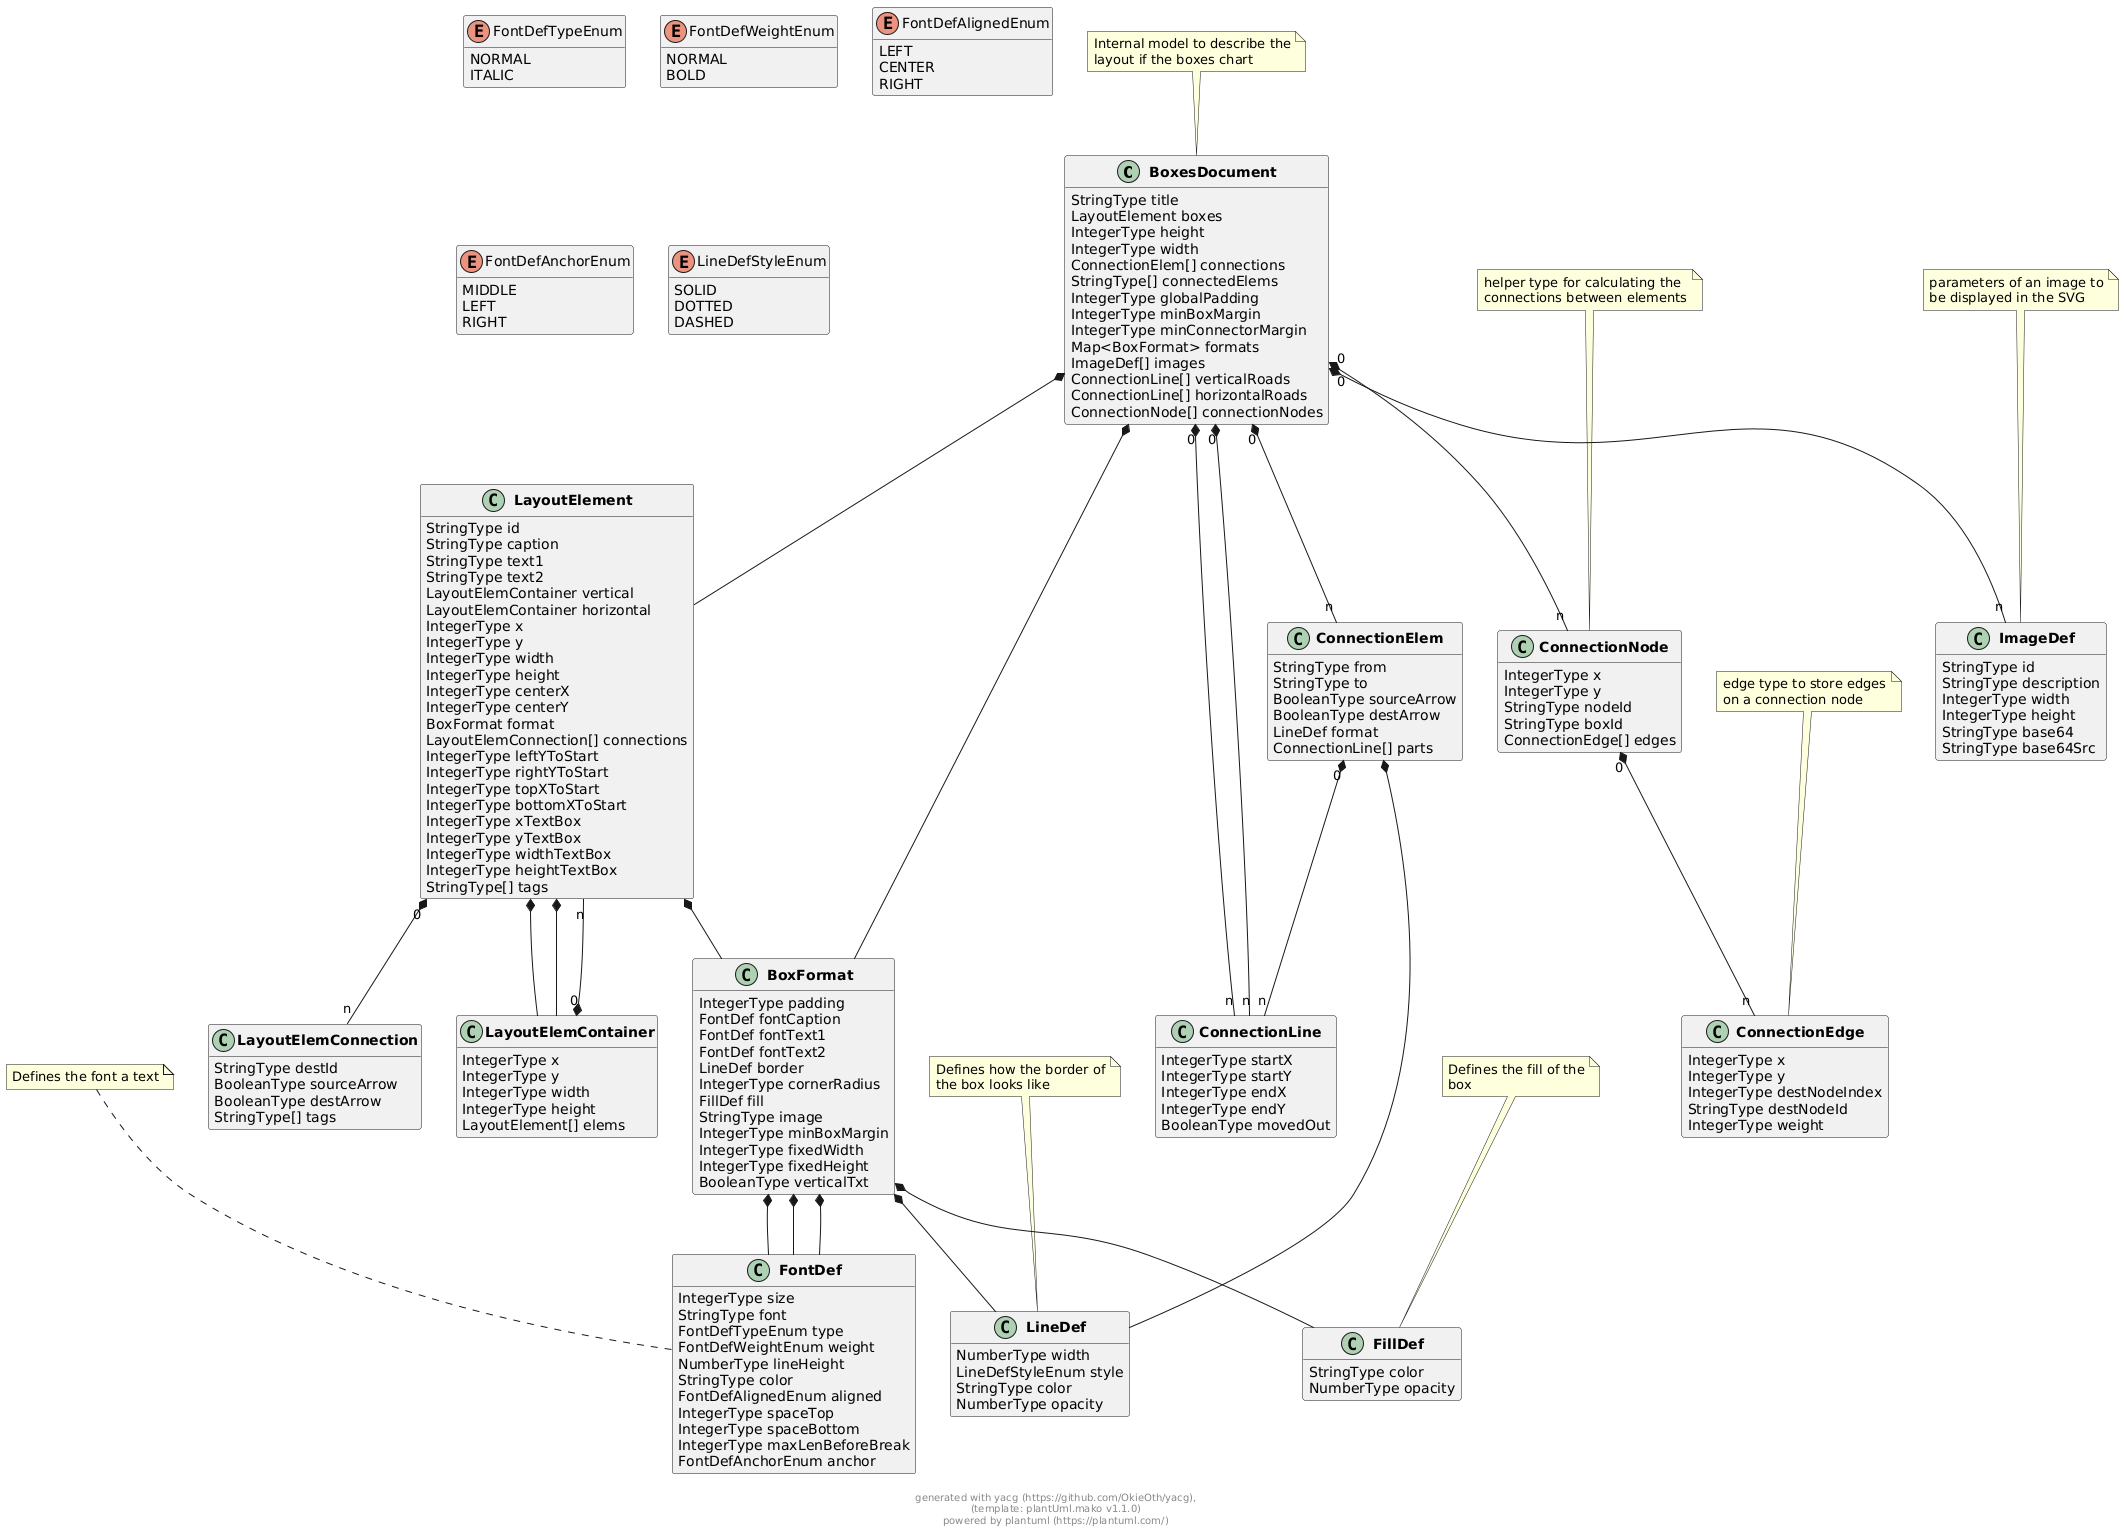
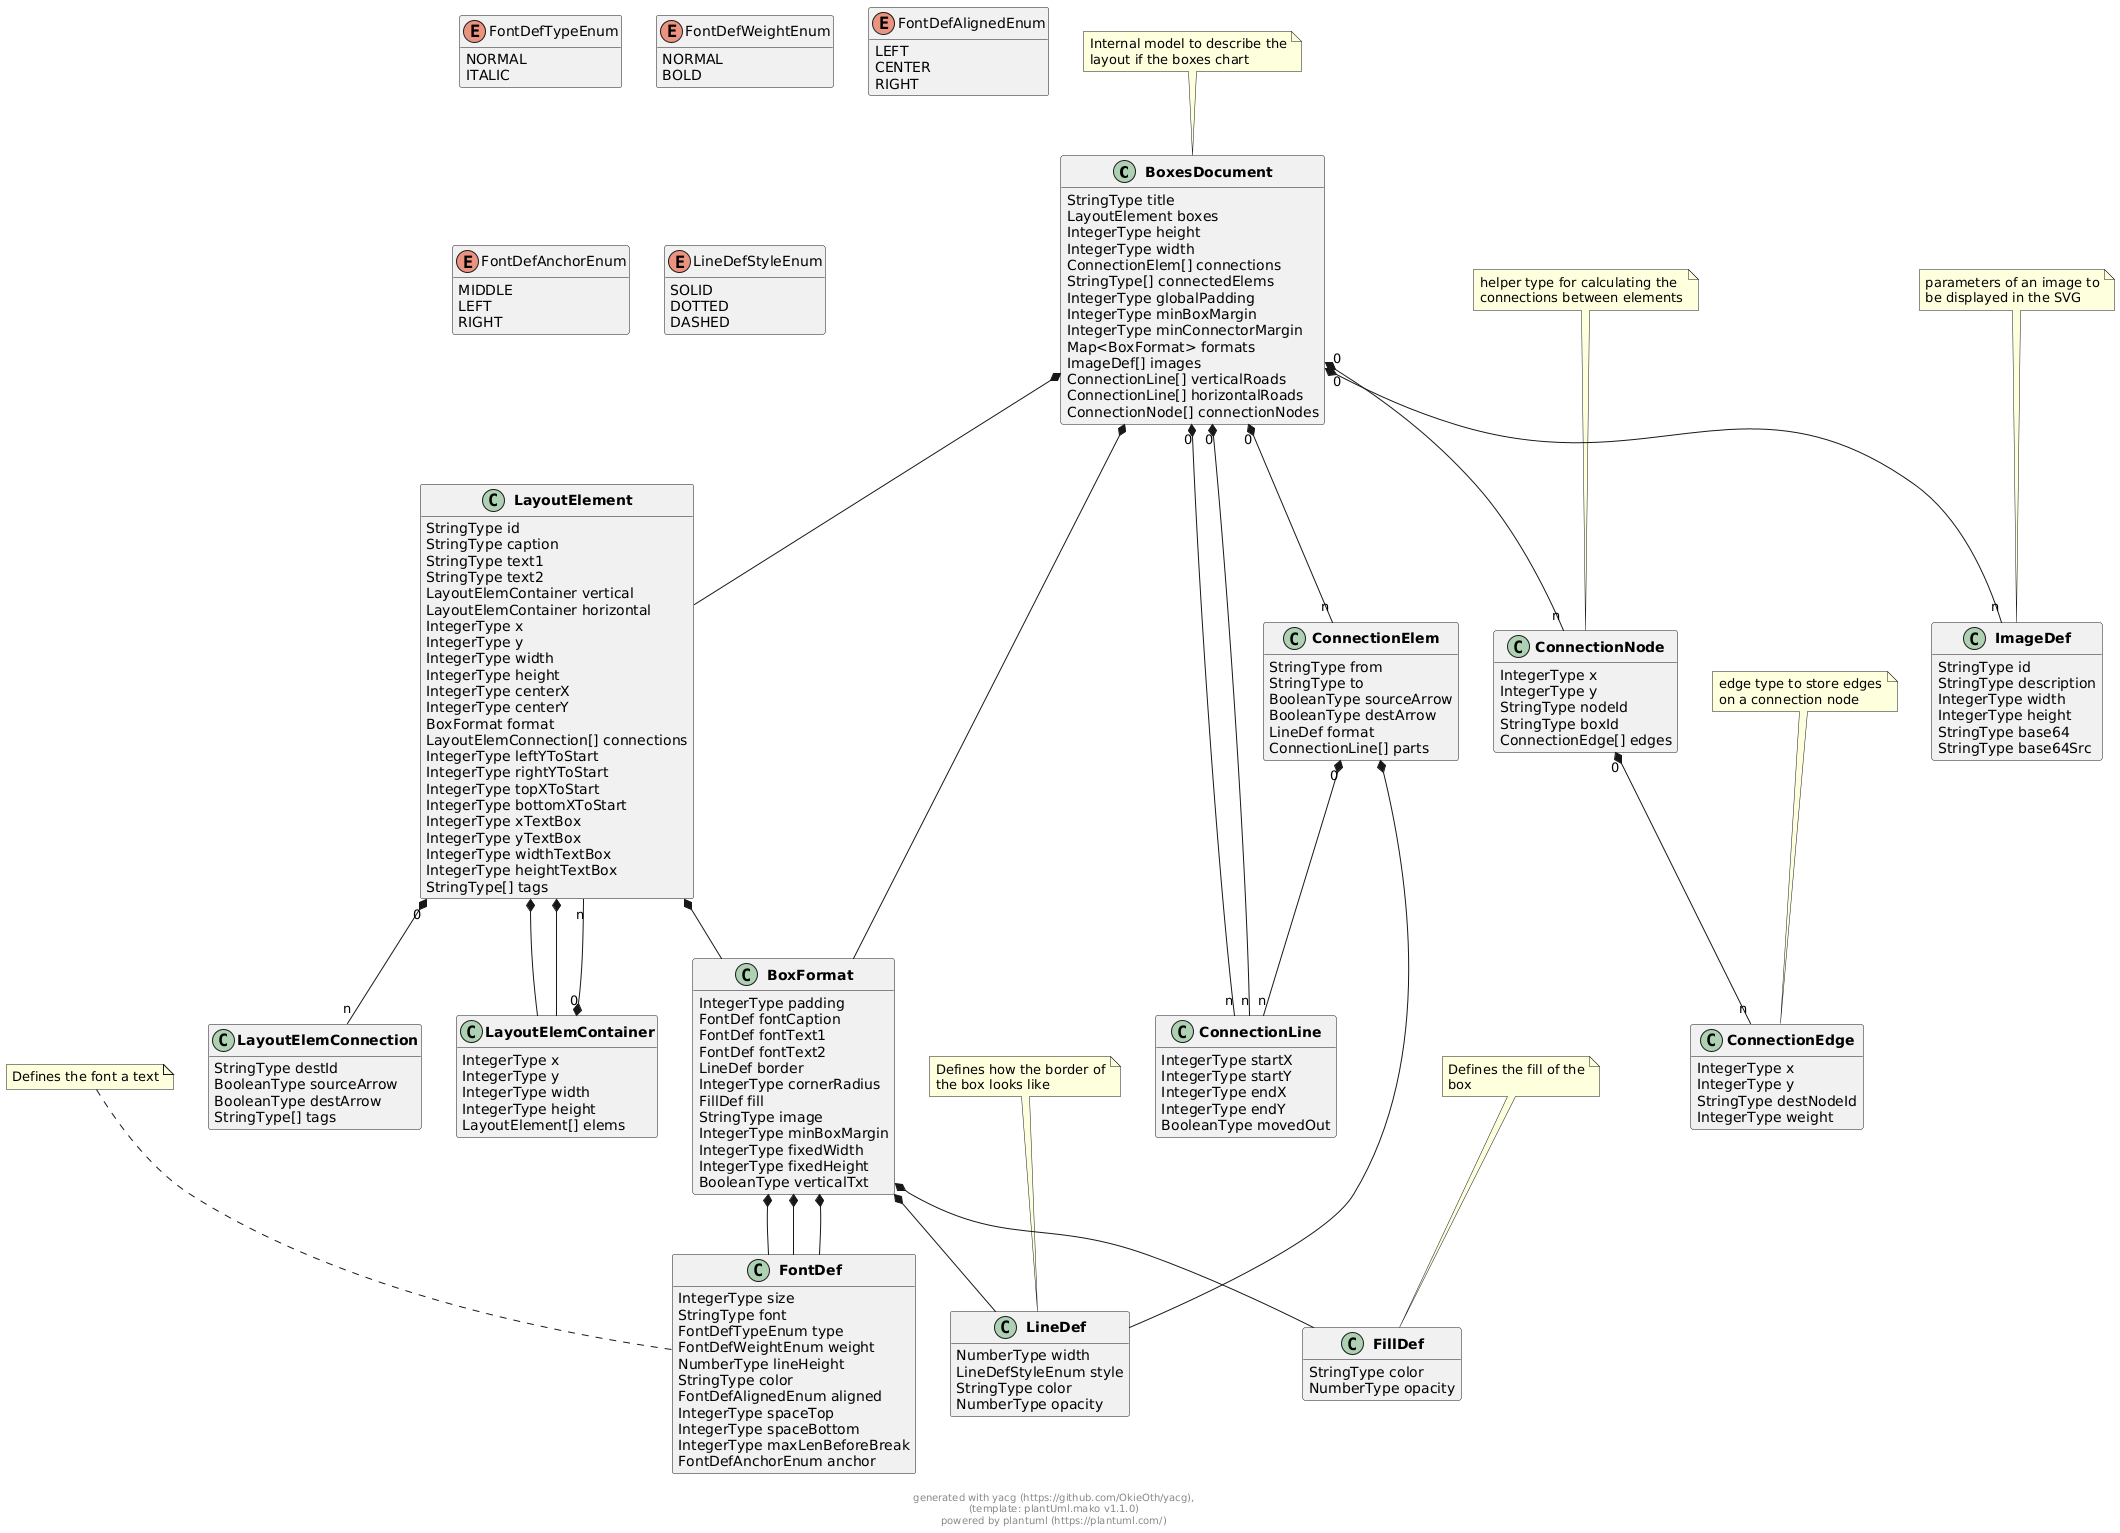
removed unneeded field from boxesdocument

diff --git a/pkg/types/boxes/connect.go b/pkg/types/boxes/connect.go
@@ -167,12 +167,9 @@ func (doc *BoxesDocument) horizontalRoads2ConnectionNodes() {
 					weight := v.StartX - doc.ConnectionNodes[len(doc.ConnectionNodes)-1].X
 					newEdge := CreateConnectionEdge(v.StartX, h.StartY, weight)
 					newEdge.DestNodeId = &id
-					newEdge.DestNodeIndex = &newNodeIndex
 					doc.ConnectionNodes[len(doc.ConnectionNodes)-1].Edges = append(doc.ConnectionNodes[len(doc.ConnectionNodes)-1].Edges, newEdge)
 					newEdge2 := CreateConnectionEdge(doc.ConnectionNodes[len(doc.ConnectionNodes)-1].X, doc.ConnectionNodes[len(doc.ConnectionNodes)-1].Y, weight)
 					newEdge2.DestNodeId = doc.ConnectionNodes[len(doc.ConnectionNodes)-1].NodeId
-					lastNodeIndex := newNodeIndex - 1
-					newEdge2.DestNodeIndex = &lastNodeIndex
 					newNode.Edges = append(newNode.Edges, newEdge2)
 				}
 				doc.ConnectionNodes = append(doc.ConnectionNodes, *newNode)
@@ -206,12 +203,10 @@ func (doc *BoxesDocument) verticalEdges() {
 						weight := nodeY - lastY
 						newEdgeUp := CreateConnectionEdge(v.StartX, lastY, weight)
 						newEdgeUp.DestNodeId = doc.ConnectionNodes[lastNodeIndex].NodeId
-						newEdgeUp.DestNodeIndex = &lastNodeIndex
 						doc.ConnectionNodes[nodeIndex].Edges = append(doc.ConnectionNodes[nodeIndex].Edges, newEdgeUp)
 
 						newEdgeDown := CreateConnectionEdge(nodeX, nodeY, weight)
 						newEdgeDown.DestNodeId = doc.ConnectionNodes[nodeIndex].NodeId
-						newEdgeDown.DestNodeIndex = &nodeIndex
 						doc.ConnectionNodes[lastNodeIndex].Edges = append(doc.ConnectionNodes[lastNodeIndex].Edges, newEdgeDown)
 					}
 				}
@@ -236,10 +231,8 @@ func (doc *BoxesDocument) initEdgesForBoxConnections() {
 			if nodeIndex > -1 {
 				weight := doc.ConnectionNodes[i].Edges[0].Weight
 				doc.ConnectionNodes[i].Edges[0].DestNodeId = doc.ConnectionNodes[nodeIndex].NodeId
-				doc.ConnectionNodes[i].Edges[0].DestNodeIndex = &nodeIndex
 				newEdge := CreateConnectionEdge(doc.ConnectionNodes[i].X, doc.ConnectionNodes[i].Y, weight)
 				newEdge.DestNodeId = doc.ConnectionNodes[i].NodeId
-				newEdge.DestNodeIndex = &i
 				doc.ConnectionNodes[nodeIndex].Edges = append(doc.ConnectionNodes[nodeIndex].Edges, newEdge)
 			}
 		}

diff --git a/pkg/types/boxes/boxesdoc.go b/pkg/types/boxes/boxesdoc.go
@@ -517,9 +517,6 @@ type ConnectionEdge struct {
     // Y position of the element
     Y int  `yaml:"y"`
 
-    // index of the connected node in the document connection nodes array
-    DestNodeIndex *int  `yaml:"destNodeIndex,omitempty"`
-
     // either the box ID where the edge ends or the ID connection node
     DestNodeId *string  `yaml:"destNodeId,omitempty"`
 
@@ -535,7 +532,6 @@ func CopyConnectionEdge(src *ConnectionEdge) *ConnectionEdge {
     var ret ConnectionEdge
     ret.X = src.X
     ret.Y = src.Y
-    ret.DestNodeIndex = src.DestNodeIndex
     ret.DestNodeId = src.DestNodeId
     ret.Weight = src.Weight
 

diff --git a/pkg/types/boxes/boxestype_impl.go b/pkg/types/boxes/boxestype_impl.go
@@ -106,7 +106,7 @@ func (d *BoxesDocument) DrawConnectionNodes(drawingImpl types.Drawing) {
 				ey = ny
 			}
 
-			if e.DestNodeId != nil && e.Weight != 0 && e.DestNodeIndex != nil {
+			if e.DestNodeId != nil && e.Weight != 0 {
 				drawingImpl.DrawLine(nx, ny, ex, ey, f3)
 			} else {
 				//fmt.Println("DEBUG: boxId=", *n.BoxId, ", id=", *n.NodeId, "edgeCount=", len(n.Edges), ", destNodeId=", e.DestNodeId)
